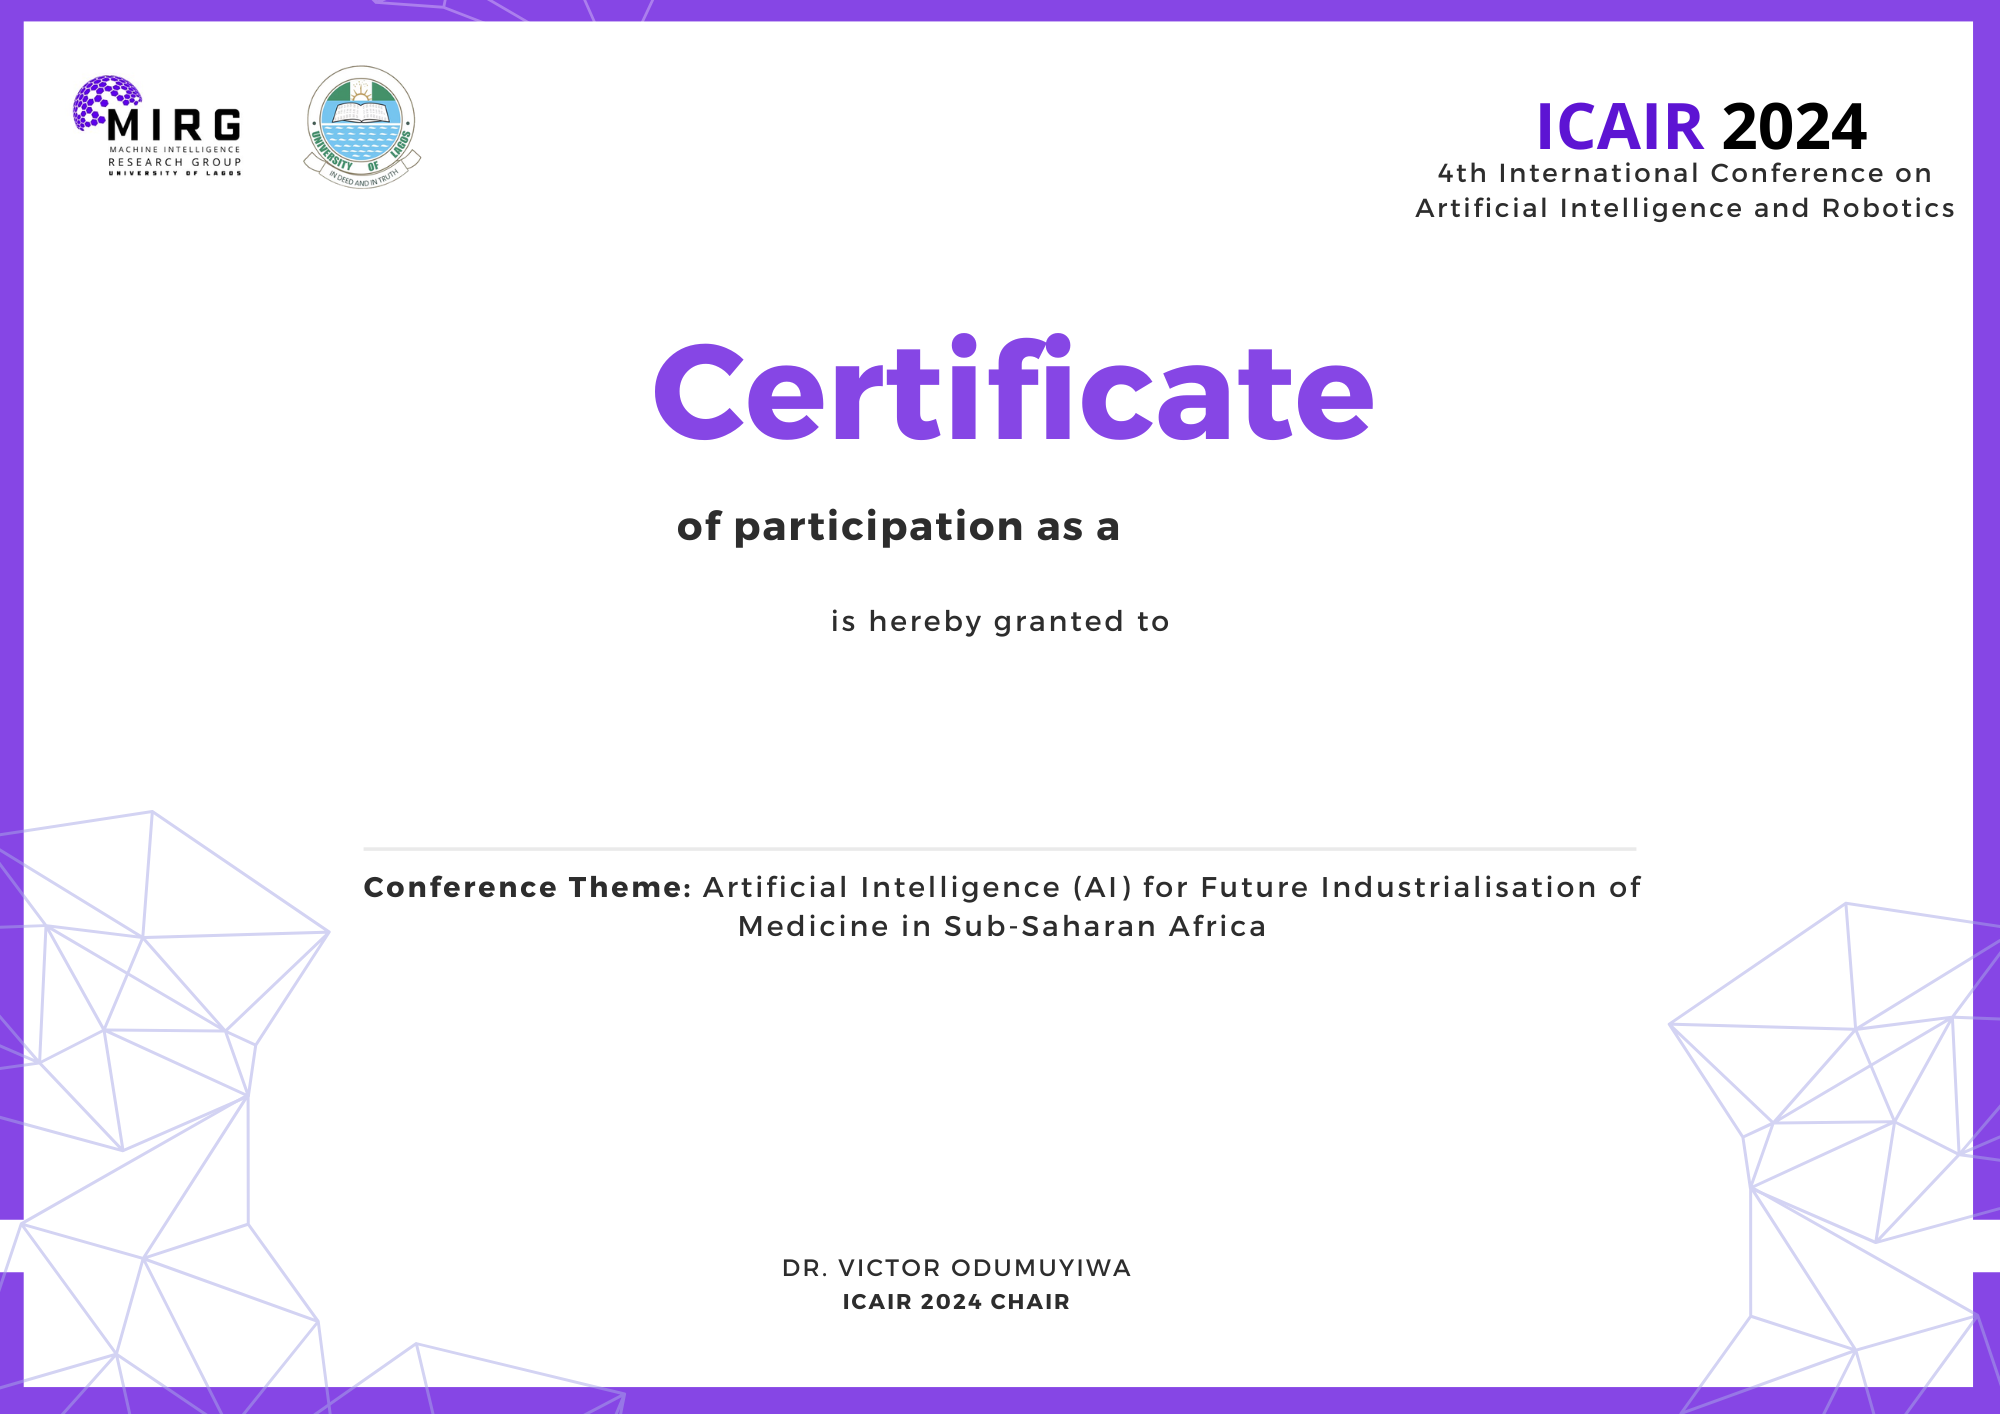
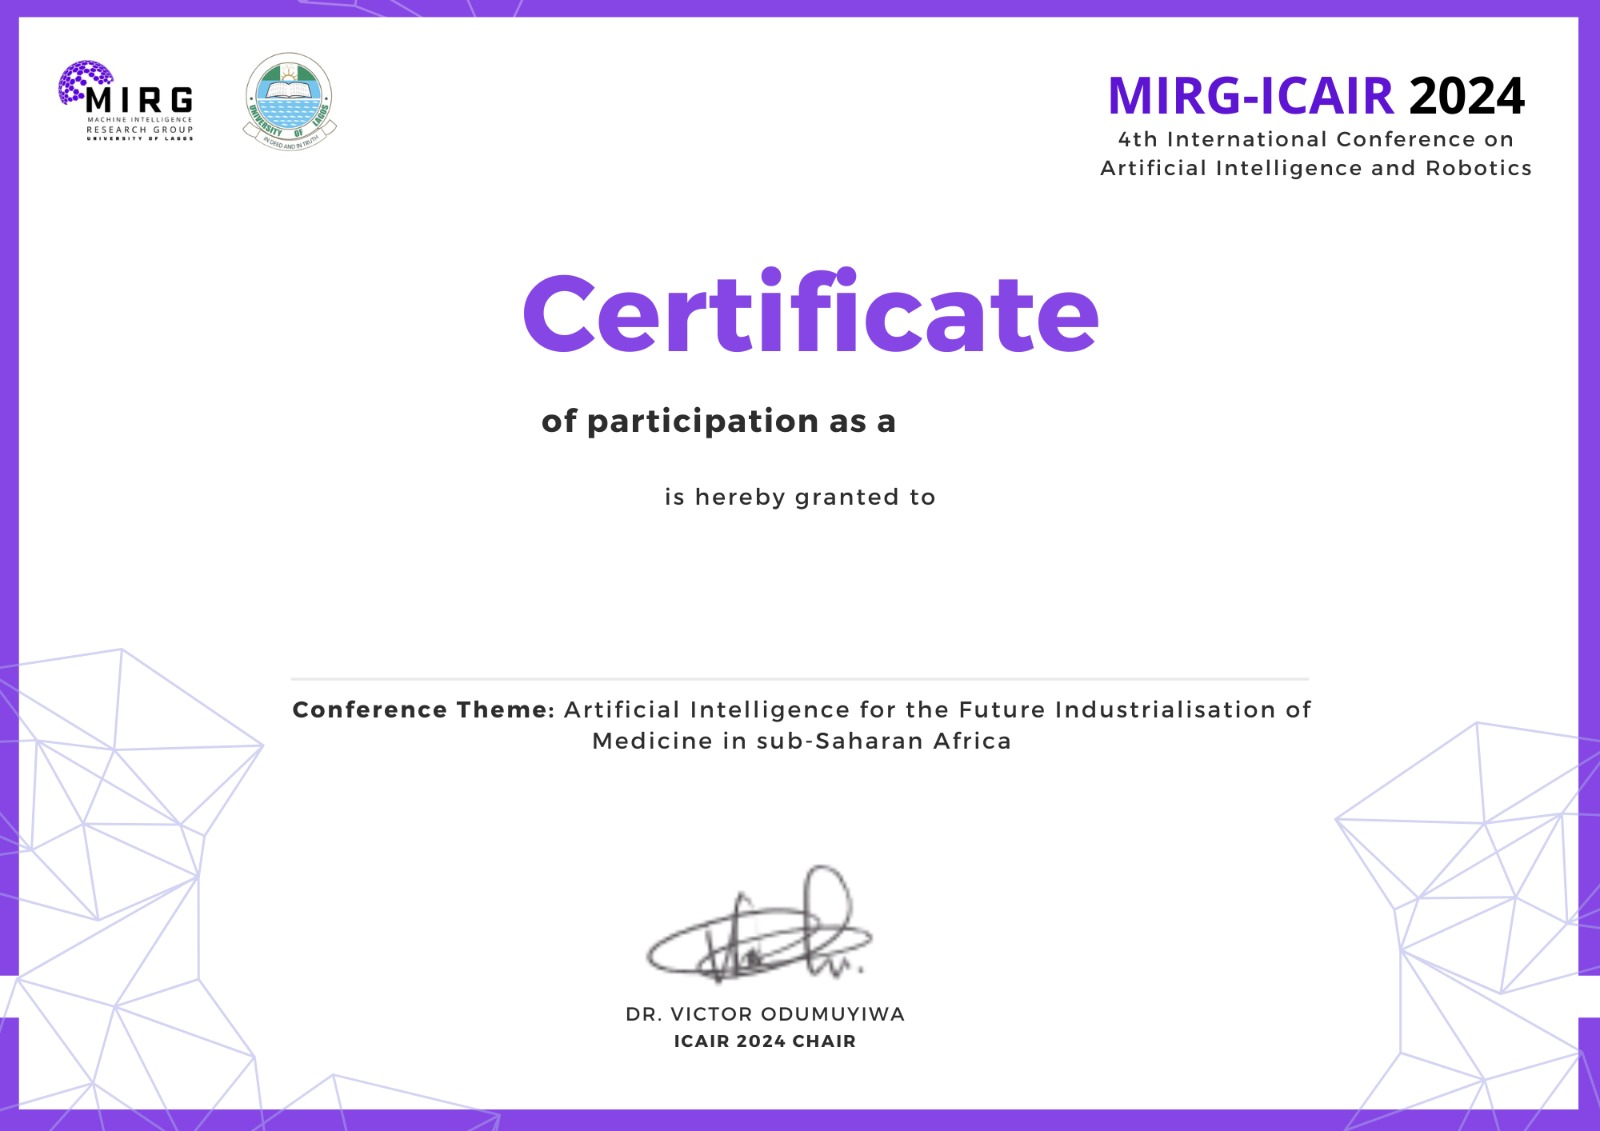
restructured the email template:::

diff --git a/utils.js b/utils.js
@@ -232,17 +232,17 @@ const generateCertificates = async (users) => {
       context.drawImage(templateImage, 0, 0);
 
       // Customize text styles
-      context.font = 'bold 80px "Alex Brush"';
+      context.font = 'normal 70px "Roboto"';
       context.fillStyle = "#8646E5";
       context.textAlign = "center";
 
       // Add user details to the certificate
-      context.fillText(name, canvas.width / 2, 800); // Name (adjust Y position as needed)
+      context.fillText(name, canvas.width / 2, 670); // Name (adjust Y position as needed)
 
       if (role.toLowerCase() == "participant") {
         const padding = 50; // Padding around text
-        const boxX = 1190;
-        const boxY = 415;
+        const boxX = 949;
+        const boxY = 308;
         const boxWidth = context.measureText(role).width + padding * 2; // Include padding width
         const boxHeight = 150 + padding * 2; // Height of the box including padding
         context.font = 'bold 30px "Roboto"';
@@ -257,8 +257,8 @@ const generateCertificates = async (users) => {
         ); // Role
       } else if (role.toLowerCase() == "volunteer") {
         const padding = 50; // Padding around text
-        const boxX = 1175;
-        const boxY = 415;
+        const boxX = 937;
+        const boxY = 308;
         const boxWidth = context.measureText(role).width + padding * 2; // Include padding width
         const boxHeight = 150 + padding * 2; // Height of the box including padding
         context.font = 'bold 30px "Roboto"';
@@ -273,8 +273,8 @@ const generateCertificates = async (users) => {
         ); // Role
       } else if (role.toLowerCase() == "speaker") {
         const padding = 50; // Padding around text
-        const boxX = 1160;
-        const boxY = 415;
+        const boxX = 923.5;
+        const boxY = 308;
         const boxWidth = context.measureText(role).width + padding * 2; // Include padding width
         const boxHeight = 150 + padding * 2; // Height of the box including padding
         context.font = 'bold 30px "Roboto"';

diff --git a/index.js b/index.js
@@ -36,7 +36,7 @@ app.use(cors(corsOptions));
 app.use("/api/certificate", router);
 
 app.get("/", (req, res) => res.send("Server is up and running!!!"));
-console.log(process.env.EMAIL_USER, process.env.EMAIL_PASS);
+
 
 const startApp = async () => {
   await connectToDB();
